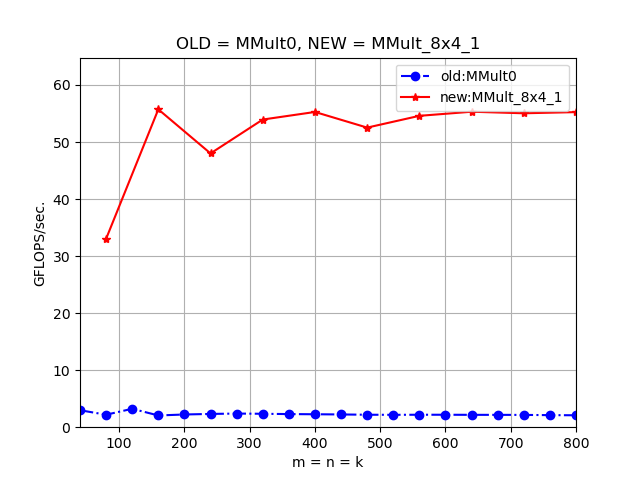
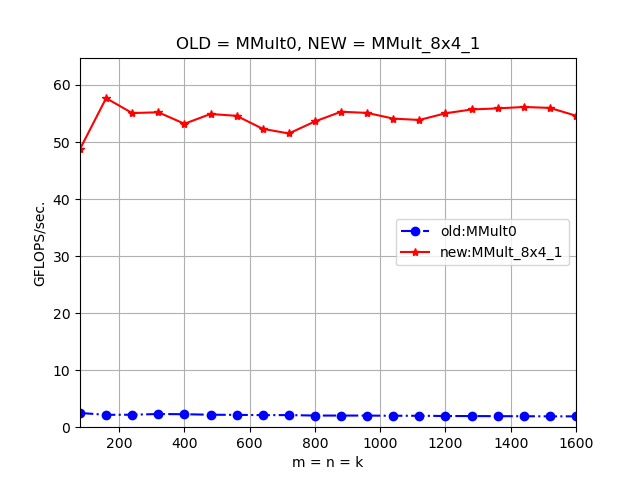
Updated readme and aligned mallocs

diff --git a/src/HowToOptimizeGemm/output_MMult0.m b/src/HowToOptimizeGemm/output_MMult0.m
@@ -1,23 +1,23 @@
 version = 'MMult0';
 MY_MMult = [
-40 2.976744e+00 0.000000e+00 
-80 2.188034e+00 0.000000e+00 
-120 3.229907e+00 0.000000e+00 
-160 2.056225e+00 0.000000e+00 
-200 2.228102e+00 0.000000e+00 
-240 2.326294e+00 0.000000e+00 
-280 2.390374e+00 0.000000e+00 
-320 2.353938e+00 0.000000e+00 
-360 2.299231e+00 0.000000e+00 
-400 2.269182e+00 0.000000e+00 
-440 2.234188e+00 0.000000e+00 
-480 2.185094e+00 0.000000e+00 
-520 2.170312e+00 0.000000e+00 
-560 2.184618e+00 0.000000e+00 
-600 2.183572e+00 0.000000e+00 
-640 2.167949e+00 0.000000e+00 
-680 2.164191e+00 0.000000e+00 
-720 2.155404e+00 0.000000e+00 
-760 2.114696e+00 0.000000e+00 
-800 2.092358e+00 0.000000e+00 
+80 2.497561e+00 0.000000e+00 
+160 2.167769e+00 0.000000e+00 
+240 2.188381e+00 0.000000e+00 
+320 2.315432e+00 0.000000e+00 
+400 2.273575e+00 0.000000e+00 
+480 2.186261e+00 0.000000e+00 
+560 2.162985e+00 0.000000e+00 
+640 2.116813e+00 0.000000e+00 
+720 2.123128e+00 0.000000e+00 
+800 2.041325e+00 0.000000e+00 
+880 2.041640e+00 0.000000e+00 
+960 2.037424e+00 0.000000e+00 
+1040 2.005525e+00 0.000000e+00 
+1120 2.005670e+00 0.000000e+00 
+1200 1.963254e+00 0.000000e+00 
+1280 1.951675e+00 0.000000e+00 
+1360 1.935262e+00 0.000000e+00 
+1440 1.923005e+00 0.000000e+00 
+1520 1.901954e+00 0.000000e+00 
+1600 1.905710e+00 0.000000e+00 
 ];

diff --git a/src/HowToOptimizeGemm/test_MMult.c b/src/HowToOptimizeGemm/test_MMult.c
@@ -44,11 +44,17 @@ int main()
     /* Allocate space for the matrices */
     /* Note: I create an extra column in A to make sure that
        prefetching beyond the matrix does not cause a segfault */
-    a = ( double * ) malloc( lda * (k+1) * sizeof( double ) );  
-    b = ( double * ) malloc( ldb * n * sizeof( double ) );
-    c = ( double * ) malloc( ldc * n * sizeof( double ) );
-    cold = ( double * ) malloc( ldc * n * sizeof( double ) );
-    cref = ( double * ) malloc( ldc * n * sizeof( double ) );
+    // a = ( double * ) malloc( lda * (k+1) * sizeof( double ) );  
+    // b = ( double * ) malloc( ldb * n * sizeof( double ) );
+    // c = ( double * ) malloc( ldc * n * sizeof( double ) );
+    // cold = ( double * ) malloc( ldc * n * sizeof( double ) );
+    // cref = ( double * ) malloc( ldc * n * sizeof( double ) );
+
+    posix_memalign(&a, 64, lda * (k+1) * sizeof(double));
+    posix_memalign(&b, 64, ldb * n * sizeof(double));
+    posix_memalign(&c, 64, ldc * n * sizeof(double));
+    posix_memalign(&cold, 64, ldc * n * sizeof(double));
+    posix_memalign(&cref, 64, ldc * n * sizeof(double));
 
     /* Generate random matrices A, B, Cold */
     random_matrix( m, k, a, lda );

diff --git a/src/HowToOptimizeGemm/output_MMult_8x4_1.m b/src/HowToOptimizeGemm/output_MMult_8x4_1.m
@@ -1,0 +1,23 @@
+version = 'MMult_8x4_1';
+MY_MMult = [
+80 4.876190e+01 4.535682e+115 
+160 5.769014e+01 4.526549e+115 
+240 5.507570e+01 4.515831e+115 
+320 5.521146e+01 4.514802e+115 
+400 5.320033e+01 4.499116e+115 
+480 5.491162e+01 4.496315e+115 
+560 5.458999e+01 8.849610e+115 
+640 5.231371e+01 1.691546e+116 
+720 5.149669e+01 3.357732e+116 
+800 5.360976e+01 6.660871e+116 
+880 5.530755e+01 9.162393e+183 
+960 5.510314e+01 1.771105e+184 
+1040 5.410341e+01 6.987984e+01 
+1120 5.386581e+01 3.321657e+118 
+1200 5.503448e+01 8.956105e+118 
+1280 5.570643e+01 2.455167e+119 
+1360 5.589654e+01 1.591097e+176 
+1440 5.614071e+01 4.450744e+176 
+1520 5.598113e+01 1.218851e+177 
+1600 5.460714e+01 4.310686e+177 
+];

diff --git a/README.md b/README.md
@@ -1,33 +1,40 @@
-# How To Optimize Gemm wiki pages
-https://github.com/flame/how-to-optimize-gemm/wiki
+# Forked from How To Optimize Gemm
 
+https://github.com/flame/how-to-optimize-gemm
+Wiki: https://github.com/flame/how-to-optimize-gemm/wiki
 Copyright by Prof. Robert van de Geijn (rvdg@cs.utexas.edu).
 
-Adapted to Github Markdown Wiki by Jianyu Huang (jianyu@cs.utexas.edu).
 
 # Table of contents
 
-  * [The GotoBLAS/BLIS Approach to Optimizing Matrix-Matrix Multiplication - Step-by-Step](../../wiki#the-gotoblasblis-approach-to-optimizing-matrix-matrix-multiplication---step-by-step)
-  * [NOTICE ON ACADEMIC HONESTY](../../wiki#notice-on-academic-honesty)
-  * [References](../../wiki#references)
-  * [Set Up](../../wiki#set-up)
-  * [Step-by-step optimizations](../../wiki#step-by-step-optimizations)
-  * [Computing four elements of C at a time](../../wiki#computing-four-elements-of-c-at-a-time)
-    * [Hiding computation in a subroutine](../../wiki#hiding-computation-in-a-subroutine)
-    * [Computing four elements at a time](../../wiki#computing-four-elements-at-a-time)
-    * [Further optimizing](../../wiki#further-optimizing)
-  * [Computing a 4 x 4 block of C at a time](../../wiki#computing-a-4-x-4-block-of-c-at-a-time)
-    * [Repeating the same optimizations](../../wiki#repeating-the-same-optimizations)
-    * [Further optimizing](../../wiki#further-optimizing-1)
-    * [Blocking to maintain performance](../../wiki#blocking-to-maintain-performance)
-    * [Packing into contiguous memory](../../wiki#packing-into-contiguous-memory)
-  * [Acknowledgement](../../wiki#acknowledgement)
+| Filename | Optimization |
+| --- | --- |
+| `MMult0.c` | Baseline triple-loop GEMM. |
+| `MMult1.c` | Factors the dot product into `AddDot` and traverses C by columns. |
+| `MMult2.c` | Unrolls the N dimension to compute four output columns per iteration. |
+| `MMult_1x4_3.c` | Introduces a 1×4 microkernel made from four dot products. |
+| `MMult_1x4_4.c` | Inlines the dot-product work into the 1×4 microkernel. |
+| `MMult_1x4_5.c` | Merges four inner loops to compute four dot products concurrently. |
+| `MMult_1x4_6.c` | Accumulates in registers and reuses the loaded A element. |
+| `MMult_1x4_7.c` | Replaces indexed B access with advancing column pointers. |
+| `MMult_1x4_8.c` | Unrolls the K loop by four. |
+| `MMult_1x4_9.c` | Uses base-plus-offset addressing in the unrolled K loop. |
+| `MMult_4x4_3.c` | Introduces a 4×4 microkernel using sixteen scalar dot products. |
+| `MMult_4x4_4.c` | Inlines the sixteen dot products. |
+| `MMult_4x4_5.c` | Merges the dot-product loops into a 4×4 outer-product update. |
+| `MMult_4x4_6.c` | Keeps the 4×4 accumulators and A values in registers. |
+| `MMult_4x4_7.c` | Uses pointers to traverse B's four columns. |
+| `MMult_4x4_8.c` | Caches the current B row in registers. |
+| `MMult_4x4_9.c` | Rearranges the scalar kernel for vectorization. |
+| `MMult_4x4_10.c` | Vectorizes the 4×4 kernel with SSE-to-NEON intrinsics. |
+| `MMult_4x4_11.c` | Adds M and K cache blocking. |
+| `MMult_4x4_12.c` | Packs A panels into contiguous memory. |
+| `MMult_4x4_13.c` | Reuses each packed A panel across output-column blocks. |
+| `MMult_4x4_14.c` | Packs B panels into contiguous memory. |
+| `MMult_4x4_15.c` | Reuses a static packed-B buffer across M blocks. |
+| `MMult_4x4_16.c` | Uses explicit fused multiply-add operations. |
+| `MMult_4x4_17.c` | Replaces the compatibility layer with direct NEON and unrolls K by two with independent accumulators. |
+| `MMult_4x4_18.c` | Tunes block sizes and reschedules loads and FMAs. |
+| `MMult_8x4_1.c` | Expands the microkernel to 8×4 and aligns packed buffers to 64 bytes. |
 
-# Related Links
-* [BLISlab: A Sandbox for Optimizing GEMM](https://github.com/flame/blislab)
-* [GEMM: From Pure C to SSE Optimized Micro Kernels](http://apfel.mathematik.uni-ulm.de/~lehn/sghpc/gemm/)
-
-# Acknowledgement
-This material was partially sponsored by grants from the National Science Foundation (Awards ACI-1148125/1340293 and ACI-1550493).
-
-_Any opinions, findings and conclusions or recommendations expressed in this material are those of the author(s) and do not necessarily reflect the views of the National Science Foundation (NSF)._
+![MMult0 versus MMult 8×4](figures/compare_MMult0_MMult_8x4_1.png)
